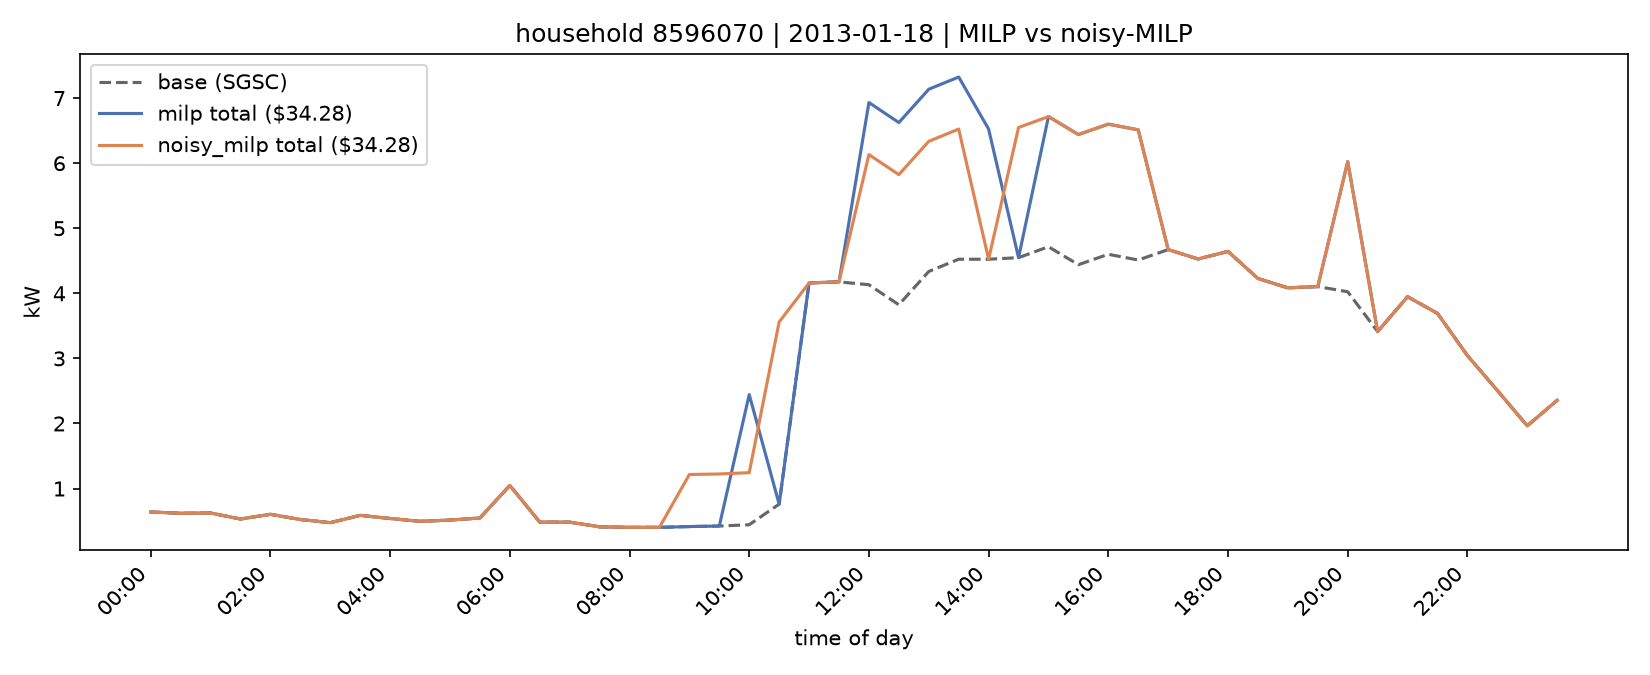
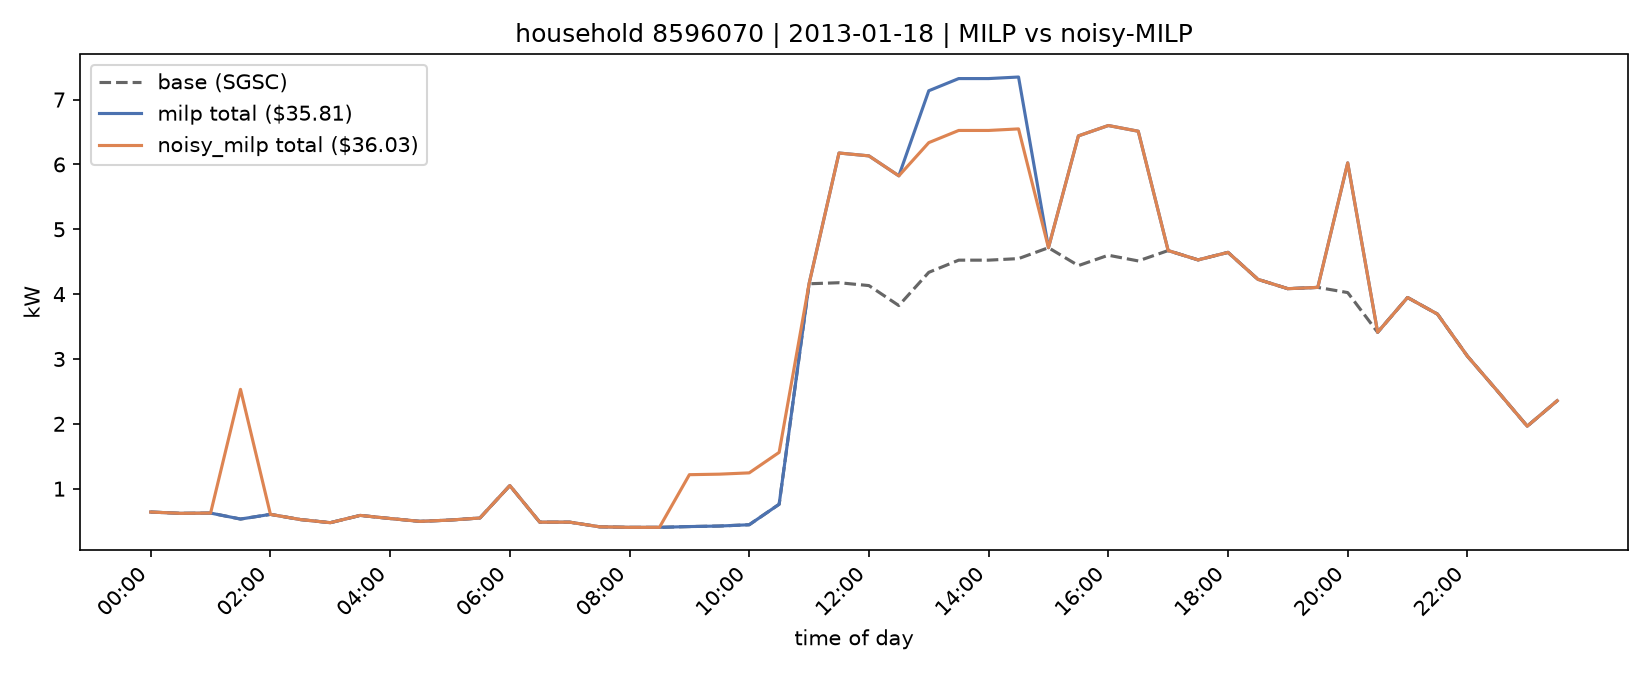
Confirm tariff windows against current Ausgrid residential TOU periods
Replaces the illustrative peak/shoulder/off-peak windows with Ausgrid's
current residential TOU network periods (source: "Ausgrid residential TOU
network periods, 2025-26"): peak 15:00-21:00 every day, but only in summer
(Nov-Mar) and winter (Jun-Aug); shoulder 07:00-15:00 and 21:00-22:00;
off-peak 22:00-07:00. The $/kWh rates stay representative retail
placeholders (0.55/0.28/0.22), now CONFIRM-tagged against a real retail
plan rather than the windows.

tariff.py gains month-gated windows (Window.months) so peak only applies
in its season -- outside peak months the 15:00-21:00 slot falls through to
the shoulder default, no separate "shoulder season" window needed. CPP
events now resolve their rate via a configured severity (moderate $1.20 /
severe $2.50) instead of a single flat rate, for sensitivity analysis.

Regenerated results/phase1/* under the new tariff; confirmed the Phase 1
demo day (2013-01-18, January) sits inside the summer peak season, so the
demo actually exercises the peak rate outside its CPP window. Updated
BUILD_SPEC.md §9 and the open-items list accordingly. All unit tests pass.

diff --git a/llm-hems/tests/test_tariff.py b/llm-hems/tests/test_tariff.py
@@ -1,7 +1,8 @@
 """Tests for `hems.environment.tariff`.
 
 Responsibility (BUILD_SPEC.md §9): unit-test `tariff.rate_at(t, date)`
-against the configured peak/shoulder/off-peak table and CPP event schedule.
+against the configured peak/shoulder/off-peak table (including the
+summer/winter-only peak season) and the CPP event schedule.
 """
 
 from __future__ import annotations
@@ -14,9 +15,10 @@ from hems.environment.tariff import Tariff, step_to_clock
 
 CONFIG_PATH = "config/tariff.yaml"
 
-MONDAY = dt.date(2013, 1, 14)  # a plain weekday, no CPP event scheduled
-SATURDAY = dt.date(2013, 1, 19)  # weekend
-CPP_DAY = dt.date(2013, 1, 18)  # the Phase 1 demo CPP event date
+SUMMER_WEEKDAY = dt.date(2013, 1, 14)  # January -> summer peak season, no CPP event
+SHOULDER_SEASON_DAY = dt.date(2013, 4, 15)  # April -> no peak season at all
+SATURDAY = dt.date(2013, 1, 19)  # weekend, still summer peak season
+CPP_DAY = dt.date(2013, 1, 18)  # the Phase 1 demo CPP event date, also summer
 
 
 def clock_to_step(clock: str) -> int:
@@ -36,45 +38,53 @@ def test_step_to_clock_roundtrip():
     assert step_to_clock(47) == "23:30"
 
 
-def test_off_peak_overnight_weekday(tariff: Tariff):
-    result = tariff.rate_at(clock_to_step("02:00"), MONDAY)
-    assert result.rate == pytest.approx(0.12)
+def test_off_peak_overnight(tariff: Tariff):
+    result = tariff.rate_at(clock_to_step("02:00"), SUMMER_WEEKDAY)
+    assert result.rate == pytest.approx(0.22)
     assert result.is_cpp is False
 
 
-def test_peak_weekday_afternoon(tariff: Tariff):
-    result = tariff.rate_at(clock_to_step("15:00"), MONDAY)
+def test_peak_summer_afternoon(tariff: Tariff):
+    result = tariff.rate_at(clock_to_step("18:00"), SUMMER_WEEKDAY)
     assert result.rate == pytest.approx(0.55)
     assert result.is_cpp is False
 
 
 def test_peak_window_is_half_open(tariff: Tariff):
-    # 14:00 is in the peak window, 20:00 (the end) is not.
-    assert tariff.rate_at(clock_to_step("14:00"), MONDAY).rate == pytest.approx(0.55)
-    assert tariff.rate_at(clock_to_step("20:00"), MONDAY).rate != pytest.approx(0.55)
+    # 15:00 is in the peak window, 21:00 (the end) is not.
+    assert tariff.rate_at(clock_to_step("15:00"), SUMMER_WEEKDAY).rate == pytest.approx(0.55)
+    assert tariff.rate_at(clock_to_step("21:00"), SUMMER_WEEKDAY).rate != pytest.approx(0.55)
 
 
-def test_shoulder_weekday_morning(tariff: Tariff):
-    result = tariff.rate_at(clock_to_step("10:00"), MONDAY)
-    assert result.rate == pytest.approx(0.22)
+def test_shoulder_morning(tariff: Tariff):
+    result = tariff.rate_at(clock_to_step("10:00"), SUMMER_WEEKDAY)
+    assert result.rate == pytest.approx(0.28)
     assert result.is_cpp is False
 
 
-def test_off_peak_overnight_weekend(tariff: Tariff):
-    result = tariff.rate_at(clock_to_step("23:00"), SATURDAY)
-    assert result.rate == pytest.approx(0.12)
+def test_shoulder_early_evening(tariff: Tariff):
+    result = tariff.rate_at(clock_to_step("21:30"), SUMMER_WEEKDAY)
+    assert result.rate == pytest.approx(0.28)
 
 
-def test_peak_window_weekday_only(tariff: Tariff):
-    # Saturday 15:00 has no peak window configured for weekends -> shoulder.
-    result = tariff.rate_at(clock_to_step("15:00"), SATURDAY)
-    assert result.rate == pytest.approx(0.22)
+def test_peak_applies_on_weekends_too(tariff: Tariff):
+    # Current Ausgrid-style TOU periods apply every day, not weekday-only.
+    result = tariff.rate_at(clock_to_step("18:00"), SATURDAY)
+    assert result.rate == pytest.approx(0.55)
+
+
+def test_no_peak_season_falls_back_to_shoulder(tariff: Tariff):
+    # April is outside both summer (Nov-Mar) and winter (Jun-Aug) peak
+    # months, so 15:00-21:00 has no matching window -> shoulder default.
+    result = tariff.rate_at(clock_to_step("18:00"), SHOULDER_SEASON_DAY)
+    assert result.rate == pytest.approx(0.28)
+    assert result.is_cpp is False
 
 
 def test_cpp_event_overrides_peak(tariff: Tariff):
     # 17:00-20:00 on the CPP day overrides what would otherwise be peak.
     result = tariff.rate_at(clock_to_step("18:00"), CPP_DAY)
-    assert result.rate == pytest.approx(1.25)
+    assert result.rate == pytest.approx(1.20)  # moderate severity
     assert result.is_cpp is True
 
 
@@ -85,12 +95,27 @@ def test_cpp_event_is_half_open(tariff: Tariff):
 
 def test_cpp_event_scoped_to_its_date(tariff: Tariff):
     # Same clock time, non-CPP date -> normal peak schedule applies.
-    result = tariff.rate_at(clock_to_step("18:00"), MONDAY)
+    result = tariff.rate_at(clock_to_step("18:00"), SUMMER_WEEKDAY)
     assert result.is_cpp is False
     assert result.rate == pytest.approx(0.55)
 
 
 def test_overnight_boundary_wraps_midnight(tariff: Tariff):
     # off-peak window is 22:00 -> 07:00; 06:59 is inside, 07:00 is not.
-    assert tariff.rate_at(clock_to_step("06:30"), MONDAY).rate == pytest.approx(0.12)
-    assert tariff.rate_at(clock_to_step("07:00"), MONDAY).rate != pytest.approx(0.12)
+    assert tariff.rate_at(clock_to_step("06:30"), SUMMER_WEEKDAY).rate == pytest.approx(0.22)
+    assert tariff.rate_at(clock_to_step("07:00"), SUMMER_WEEKDAY).rate != pytest.approx(0.22)
+
+
+def test_severe_cpp_rate_is_configured_and_higher(tariff: Tariff):
+    # Not wired to a default event, but must be available for the
+    # sensitivity variant (BUILD_SPEC.md CONFIRM).
+    assert tariff.cpp_severity_rates["severe"] == pytest.approx(2.50)
+    assert tariff.cpp_severity_rates["severe"] > tariff.cpp_severity_rates["moderate"]
+
+
+def test_demo_day_is_within_summer_peak_season(tariff: Tariff):
+    # Confirms the Phase 1 hot-day demo (January) actually exercises the
+    # summer peak rate outside the CPP window, not the shoulder default.
+    result = tariff.rate_at(clock_to_step("15:30"), CPP_DAY)
+    assert result.rate == pytest.approx(0.55)
+    assert result.is_cpp is False

diff --git a/llm-hems/src/hems/environment/tariff.py b/llm-hems/src/hems/environment/tariff.py
@@ -54,8 +54,11 @@ class Window:
     days: tuple[str, ...]
     start: str
     end: str
+    months: tuple[int, ...] | None = None  # None = applies in every month
 
-    def matches(self, weekday_abbrev: str, t_minutes: int) -> bool:
+    def matches(self, weekday_abbrev: str, t_minutes: int, month: int) -> bool:
+        if self.months is not None and month not in self.months:
+            return False
         return weekday_abbrev in self.days and _time_in_window(t_minutes, self.start, self.end)
 
 
@@ -64,6 +67,7 @@ class CppEvent:
     date: dt.date
     start: str
     end: str
+    rate: float
 
     def matches(self, date: dt.date, t_minutes: int) -> bool:
         return date == self.date and _time_in_window(t_minutes, self.start, self.end)
@@ -82,12 +86,14 @@ class Tariff:
         self.off_peak_windows = self._parse_windows(rates["off_peak"].get("windows", []))
 
         cpp = config.get("cpp", {})
-        self.cpp_rate = float(cpp["rate"]) if "rate" in cpp else None
+        severities = {k: float(v) for k, v in cpp.get("rates", {}).items()}
+        self.cpp_severity_rates = severities
         self.cpp_events = [
             CppEvent(
                 date=dt.date.fromisoformat(e["date"]),
                 start=e["start"],
                 end=e["end"],
+                rate=float(e["rate"]) if "rate" in e else severities[e["severity"]],
             )
             for e in cpp.get("events", [])
         ]
@@ -95,7 +101,13 @@ class Tariff:
     @staticmethod
     def _parse_windows(windows: list[dict]) -> list[Window]:
         return [
-            Window(days=tuple(w["days"]), start=w["start"], end=w["end"]) for w in windows
+            Window(
+                days=tuple(w["days"]),
+                start=w["start"],
+                end=w["end"],
+                months=tuple(w["months"]) if "months" in w else None,
+            )
+            for w in windows
         ]
 
     @classmethod
@@ -114,14 +126,17 @@ class Tariff:
 
         for event in self.cpp_events:
             if event.matches(date, t_minutes):
-                return RateResult(rate=self.cpp_rate, is_cpp=True)
+                return RateResult(rate=event.rate, is_cpp=True)
 
         weekday = _DAY_ABBREV[date.weekday()]
+        month = date.month
 
-        if any(w.matches(weekday, t_minutes) for w in self.peak_windows):
+        if any(w.matches(weekday, t_minutes, month) for w in self.peak_windows):
             return RateResult(rate=self.peak_rate, is_cpp=False)
-        if any(w.matches(weekday, t_minutes) for w in self.off_peak_windows):
+        if any(w.matches(weekday, t_minutes, month) for w in self.off_peak_windows):
             return RateResult(rate=self.off_peak_rate, is_cpp=False)
-        if any(w.matches(weekday, t_minutes) for w in self.shoulder_windows):
+        if any(w.matches(weekday, t_minutes, month) for w in self.shoulder_windows):
             return RateResult(rate=self.shoulder_rate, is_cpp=False)
+        # No window matched (e.g. the 15:00-21:00 slot outside peak season) --
+        # shoulder is the schedule's catch-all rate.
         return RateResult(rate=self.shoulder_rate, is_cpp=False)

diff --git a/BUILD_SPEC.md b/BUILD_SPEC.md
@@ -169,14 +169,14 @@ Keep the appliance set to exactly these two for the core thesis. Do not add EV /
 ## 8. Household / persona params (`household.yaml`)
 Small set of interpretable comfort parameters the LLM prompt is conditioned on and the MILP bands are derived from — e.g. `thermal_sensitivity` (tight vs loose band), `price_sensitivity` (a qualitative descriptor, not a number the LLM does math on), `deadline` for the shiftable load, `occupied_hours`. Representative households come from the SGSC clusters (Phase 0 selects them).
 
-## 9. Tariff (`tariff.yaml`, `CONFIRM` all numbers)
-Ausgrid-style residential TOU (illustrative placeholders — replace with a real current Ausgrid residential TOU schedule):
-- Peak (e.g. 14:00–20:00 weekdays): ~`$0.55/kWh`
-- Shoulder: ~`$0.22/kWh`
-- Off-peak (e.g. 22:00–07:00): ~`$0.12/kWh`
-- **CPP events:** on flagged days, override a 2–4 h window with a spike (e.g. `$1.00–$1.50/kWh`) to stress-test elasticity. Schedule of CPP days is config.
+## 9. Tariff (`tariff.yaml`)
+Window structure (peak/shoulder/off-peak hours, and the seasonal peak) follows Ausgrid's current residential TOU network periods (source: "Ausgrid residential TOU network periods, 2025–26"); the $/kWh rates are representative retail values on top of that network tariff, `CONFIRM` against a current retail plan:
+- Peak (15:00–21:00, every day, **summer Nov–Mar and winter Jun–Aug only**): `$0.55/kWh`. Apr–May and Sep–Oct have no peak season — that window falls back to the shoulder rate.
+- Shoulder (07:00–15:00 and 21:00–22:00, every day): `$0.28/kWh`
+- Off-peak (22:00–07:00, every day): `$0.22/kWh`
+- **CPP events:** on flagged days, override a 2–4 h window with a spike. Two severities are configured for sensitivity: moderate `$1.20/kWh` (the default demo event, on the Phase 1 hot day `2013-01-18`) and severe `$2.50/kWh` `CONFIRM`. Schedule of CPP days is config.
 
-`tariff.rate_at(t)` returns `(rate, is_cpp)`. Unit-test it against the table.
+`tariff.rate_at(t, date)` returns `(rate, is_cpp)`; the peak season and weekday both depend on `date`. Unit-tested against the table, including the seasonal peak gate and the CPP severities (`tests/test_tariff.py`).
 
 ## 10. Elasticity estimator (`analysis/elasticity.py`) — the key metric
 
@@ -227,6 +227,6 @@ LLM calls = appliances × steps × seeds × households × models. For one day: 2
 
 ### Open items to close before reporting results
 - Exact current model IDs (primary + ablation).
-- Real Ausgrid residential TOU numbers + a defensible CPP schedule.
+- TOU *windows* now follow Ausgrid's current residential network periods (§9); the $/kWh rates on top of them are still representative retail placeholders — CONFIRM against a current retail plan. CPP severities ($1.20 / $2.50) are still illustrative.
 - Appliance nameplate params (HVAC kW/COP, RC values, washer kW/duration).
 - Final population size N.
